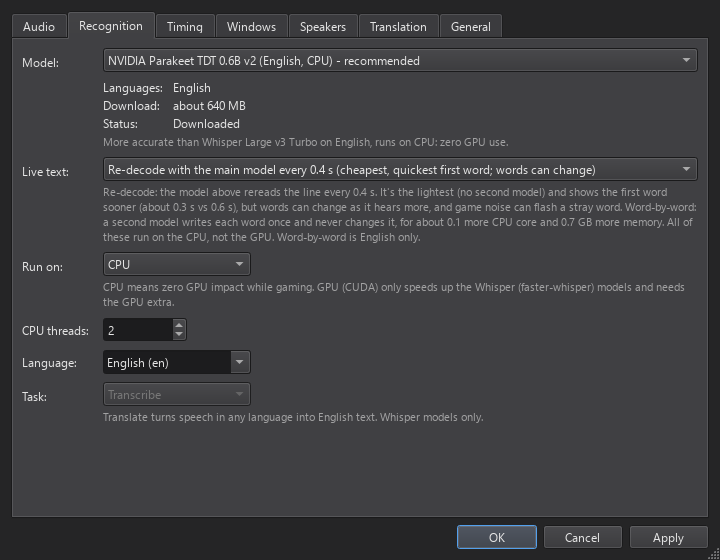
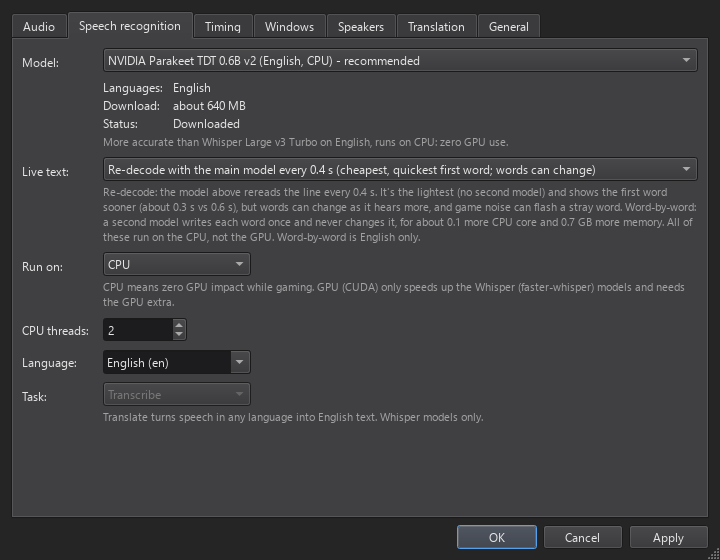
Settings: "Recognition" tab is now "Speech recognition"
Clearer about what it does, and unlike "voice recognition" it can't be
confused with the Speakers tab (telling voices apart). The Translation tab's
hints, the README (also its prose, which said "voice recognition" since the
previous commit) and the changelog follow. README screenshots re-rendered for
the new tab name; they also pick up the Translate into row and left alignment.

Changed region(s): [[0.0917, 0.0, 0.7333, 0.0607]]

diff --git a/src/voicerhino/ui/settings.py b/src/voicerhino/ui/settings.py
@@ -1694,7 +1694,7 @@ class TranslationTab(_Tab):
                        "accounts or keys. Finished lines show their translation under (history) or "
                        "instead of (captions) the original.")
         self.whisper_tip = Hint("With a GPU, Whisper Medium or Large v3 can also translate into English as it "
-                                "listens: pick one in Recognition and set Task to 'Translate to English'. "
+                                "listens: pick one in Speech recognition and set Task to 'Translate to English'. "
                                 "Whisper Turbo can't translate.")
         layout = QVBoxLayout(self)
         layout.addLayout(form)
@@ -1734,7 +1734,7 @@ class TranslationTab(_Tab):
 
     def showEvent(self, event) -> None:
         super().showEvent(event)
-        with self._quiet():  # models may have been deleted on the General tab, or Recognition changed
+        with self._quiet():  # models may have been deleted on the General tab, or Speech recognition changed
             self._fill_models()
         self._update_details()
 
@@ -1767,14 +1767,14 @@ class TranslationTab(_Tab):
         except KeyError:
             return ""
         if asr.task == "translate" and spec.can_translate:
-            return ("Whisper already turns the speech into English (Recognition › Task), so there's "
+            return ("Whisper already turns the speech into English (Speech recognition › Task), so there's "
                     "nothing left to translate.")
         if spec.languages == "English":
             return (f"The recognition model ({spec.name.split(' (')[0]}) only writes English, so there's "
-                    "nothing to translate. In Recognition, pick one for the language being spoken: "
+                    "nothing to translate. In Speech recognition, pick one for the language being spoken: "
                     "SenseVoice for Chinese, Japanese or Korean, Parakeet v3 for European languages, or Whisper.")
         if asr.language == "en":
-            return ("Recognition › Language is English, so other languages come out as English-sounding words. "
+            return ("Speech recognition › Language is English, so other languages come out as English-sounding words. "
                     "Set it to Auto-detect or to the language being spoken.")
         return ""
 
@@ -1897,7 +1897,7 @@ class GeneralTab(_Tab):
 
     def showEvent(self, event) -> None:
         super().showEvent(event)
-        self.refresh_downloads()  # the model choice may have changed on the Recognition tab
+        self.refresh_downloads()  # the model choice may have changed on the Speech recognition tab
         self.refresh_resources()
         self._resource_timer.start()
 
@@ -2066,7 +2066,7 @@ class SettingsDialog(QDialog):
                                    self.windows_tab, self.speakers_tab, self.translation_tab,
                                    self.general_tab]
         self.tabs = QTabWidget()
-        titles = ["Audio", "Recognition", "Timing", "Windows", "Speakers", "Translation", "General"]
+        titles = ["Audio", "Speech recognition", "Timing", "Windows", "Speakers", "Translation", "General"]
         for page, title in zip(self._pages, titles):
             self.tabs.addTab(page, title)
 

diff --git a/tests/test_settings_dialog.py b/tests/test_settings_dialog.py
@@ -67,7 +67,7 @@ def test_apply_emits_edited_copy_and_leaves_original_alone():
     dialog, emitted = make_dialog(original)
     assert dialog.windowTitle() == "VoiceRhino Settings"
     assert [dialog.tabs.tabText(i) for i in range(dialog.tabs.count())] == [
-        "Audio", "Recognition", "Timing", "Windows", "Speakers", "Translation", "General"]
+        "Audio", "Speech recognition", "Timing", "Windows", "Speakers", "Translation", "General"]
 
     rec = dialog.recognition_tab
     rec.model_combo.setCurrentIndex(rec.model_combo.findData("moonshine-base-en-int8"))

diff --git a/README.md b/README.md
@@ -8,7 +8,7 @@ Live captions. An accessibility tool for people who are deaf or hard-of-hearing
 (or who have auditory processing difficulties, or just need to read what's said),
 built first for deaf and hard-of-hearing gamers: big click-through captions over the game, a scrollback
 window for anything missed, captions from any audio device or a single app (e.g. only
-Discord), and voice recognition that runs on the CPU so the GPU stays free for games.
+Discord), and speech recognition that runs on the CPU so the GPU stays free for games.
 
 It also captions other languages and can [translate](#translation) them, still entirely on your
 PC: read a Chinese, Korean or Spanish teammate in English, or let a friend read your English in
@@ -68,7 +68,7 @@ packages.
   PCs it can cost a few FPS in demanding games; the Moonshine models are lighter.
 - **Memory:** roughly 1 GB free, plus about 0.7 GB more for word-by-word live text.
 - **Disk:** ~0.7 GB for the default model, more for each extra model you try
-  (sizes are in Settings → Recognition; Settings → General → _Downloaded models_ lists what's
+  (sizes are in Settings → Speech recognition; Settings → General → _Downloaded models_ lists what's
   on disk and deletes the ones you don't use).
 - **GPU:** not needed. The optional Whisper models need an NVIDIA GPU with 2–3 GB free VRAM.
 
@@ -87,7 +87,7 @@ shows VoiceRhino's own CPU, RAM and GPU use (the history window can show it too)
 | Keep your own mic out of the big captions | Settings → Windows → select the caption window → _Captions from_ (shown when there are 2+ sources)                                                          |
 | Bigger text, colors, outline, opacity     | Settings → Windows (background and text opacity each have a slider)                                                                                         |
 | Snappier or steadier captions             | Settings → Timing (live update interval, pause that ends a line, shortest speech)                                                                           |
-| Try another model                         | Settings → Recognition (downloads automatically)                                                                                                            |
+| Try another model                         | Settings → Speech recognition (downloads automatically)                                                                                                            |
 | Free disk space from models you tried     | Settings → General → _Downloaded models_: sizes, and _Delete all unused_ (a deleted model downloads again if you pick it later)                             |
 | Who's talking (colors/names)              | Settings → Speakers: voice-based colors, or Discord names ([setup](docs/discord-setup.md))                                                                  |
 | See how much CPU, RAM and GPU it uses     | Settings → General → _Resources_ (now, 1 and 5 min averages), or a line at the top of the history window (Settings → Windows → _Show VoiceRhino's CPU and memory use_) |
@@ -105,8 +105,8 @@ Right-click the tray icon → **Settings…**
       <b>Windows:</b> font, colors, outline, background and text opacity, lines shown, and which sources each window shows</td>
   </tr>
   <tr>
-    <td><img src="docs/images/settings-recognition.png" alt="Settings, Recognition tab: speech model, live text mode, CPU or GPU, language"><br>
-      <b>Recognition:</b> the speech model, live text mode, CPU or GPU, and language</td>
+    <td><img src="docs/images/settings-recognition.png" alt="Settings, Speech recognition tab: speech model, live text mode, CPU or GPU, language"><br>
+      <b>Speech recognition:</b> the speech model, live text mode, CPU or GPU, and language</td>
     <td><img src="docs/images/settings-translation.png" alt="Settings, Translation tab: Chinese to English with Opus-MT"><br>
       <b>Translation:</b> other languages into English, on your PC</td>
   </tr>
@@ -158,14 +158,14 @@ Large v3 Turbo model.
 **Live text** (the words still being spoken) is re-decoded by default: Parakeet rereads the line
 every 0.4 s. That's the lightest option and the quickest to show the first word (about 0.3 s),
 but words can change as it hears more. When the person pauses, Parakeet writes the finished
-line with proper punctuation. Settings → Recognition → _Live text_ can switch to **word-by-word**:
+line with proper punctuation. Settings → Speech recognition → _Live text_ can switch to **word-by-word**:
 a second, streaming model (NVIDIA Nemotron Streaming, also CPU, ~650 MB download) writes each
 word once and never changes it, so the line only grows, for about 0.1 more CPU core and 0.7 GB
 more memory, with the first word after about 0.6 s. Word-by-word is English-only.
 
-For other languages, set Settings → Recognition → _Language_ to **Auto-detect** (picking a
+For other languages, set Settings → Speech recognition → _Language_ to **Auto-detect** (picking a
 multilingual model does this for you) or to the language being spoken: left on English, models
-like SenseVoice force other languages into English-sounding words. Voice recognition never translates;
+like SenseVoice force other languages into English-sounding words. Speech recognition never translates;
 for English text from another language, use Settings → Translation or Whisper's Translate task.
 
 | Model                          | Languages                                             | Runs on | Notes                                                    |
@@ -192,14 +192,14 @@ no accounts, no keys, nothing sent anywhere. Pick one option; it downloads the f
 
 _Translate into_ can also be Simplified Chinese, Traditional Chinese or Spanish, for someone
 who reads that language: say a Chinese-speaking friend runs VoiceRhino on their PC, with
-Parakeet (English) for voice recognition and _Translate into_ set to Simplified Chinese, while you
+Parakeet (English) for speech recognition and _Translate into_ set to Simplified Chinese, while you
 talk in English. Into those languages only Hy-MT2 translates, and any other language comes out
 in the chosen one too. Gaming slang is where it slips most ("cover me" and "mid lane" can come
 out literally).
 
 Hy-MT2 can cost frames in CPU-heavy games while it translates; it runs at low priority so
-captions come first, but Opus-MT is the safe choice for gaming. Voice recognition has to write the
-other language first, so pick a model for that language in Settings → Recognition (the
+captions come first, but Opus-MT is the safe choice for gaming. Speech recognition has to write the
+other language first, so pick a model for that language in Settings → Speech recognition (the
 Translation tab warns when the current one only writes English). Only lines that look like the
 chosen language are translated by default, never English ones. A translation shows under its line
 in the history window and replaces it in the caption window.
@@ -323,7 +323,7 @@ by anyone.
   [Games, anti-cheat and competitive play](#games-anti-cheat-and-competitive-play)), and the
   licenses of any models or online services you choose to use.
 - **Translations can be wrong too**, more often than captions: they come from small models
-  working on what voice recognition heard, mistakes included.
+  working on what speech recognition heard, mistakes included.
 - **Third-party services** you turn on (Discord) have their own terms and privacy policies.
 
 Product names such as Windows, Discord, NVIDIA and Whisper are trademarks of their
@@ -335,7 +335,7 @@ owners and are used only to describe compatibility.
   listening to X, errors). Check Settings → Audio points at the device you actually hear.
 - **Headset unplugged:** it reconnects automatically when plugged back in.
 - **No translations:** the tray tooltip says "Translation ready" once the model has loaded, or
-  why it couldn't. Settings → Translation warns when the voice recognition model only writes English.
+  why it couldn't. Settings → Translation warns when the speech recognition model only writes English.
   If lines in the chosen language are skipped, untick the checkbox under the model there.
 - **Logs:** `%LOCALAPPDATA%\VoiceRhino\logs\voicerhino.log`.
 - **Terminal mode** (prints captions, handy for debugging):

diff --git a/CHANGELOG.md b/CHANGELOG.md
@@ -17,6 +17,7 @@ What changed in each VoiceRhino release. Download releases from the
 - **Left-aligned captions.** Settings › Windows › Alignment can put a caption window's lines at
   the left edge, so new words are added at the end and the words already shown stay where they
   are. Center stays the default.
+- The Settings tab for the speech model is now called **Speech recognition** (was Recognition).
 - Settings › Windows lists all caption windows first, then all history windows, instead of
   in the order they were added.
 - Settings opens a little wider, so the history window's "ask everyone" warning fits on one
